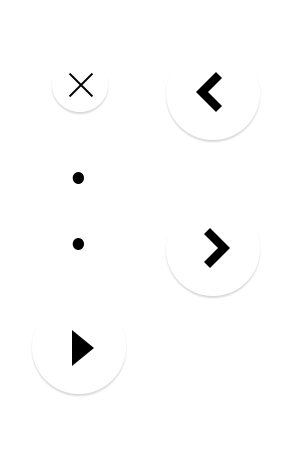
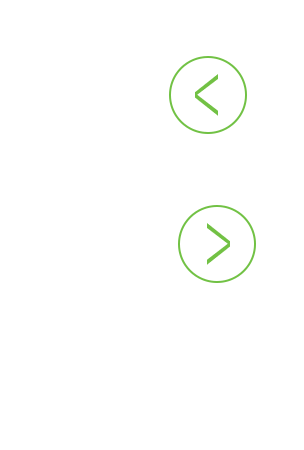
Minor Bug Fixes
Minor Bug Fixes with screen size formatting and next icons

diff --git a/quick-start.html b/quick-start.html
@@ -10,7 +10,7 @@
 		<link rel="stylesheet" href="masterslider/style/masterslider.css" />
 		 
 		<!-- MasterSlider default skin -->
-		<link rel="stylesheet" href="masterslider/skins/contrast/style.css" />
+		<link rel="stylesheet" href="masterslider/skins/light-3/style.css" />
 		 
 
 		<!-- Latest version of jQuery from Google CDN -->
@@ -47,10 +47,10 @@
 		</style>
 
         <script>
-        $(document).ready(function(){
-            new jBox('Image');
+            $(document).ready(function(){
+                 new jBox('Image');
 
-        });
+            });
 
 
         </script>
@@ -76,7 +76,7 @@
 <div class="content">
 
 <!-- masterslider -->
-<div class="master-slider ms-skin-contrast" id="masterslider">
+<div class="master-slider ms-skin-light-3" id="masterslider">
     <!-- new slide -->
     <div class="ms-slide">
          
@@ -101,9 +101,9 @@
 
         <!-- slide text layer -->
         <div class="ms-layer ms-caption"
-             style="top:10%; left:10%; bottom:50%; right:1300%; bottom:500%; font-size:19.5px;"
+             style="top:10%; left:10%; bottom:50%; right:1300%; bottom:500%; font-size:20px;"
              data-offset-x="58"
-             data-offset-y="50"
+             data-offset-y="45"
              data-origin="tl"
              data-type="text"
              data-effect="bottom(90)"
@@ -275,7 +275,7 @@
         <div class="ms-layer ms-caption"
              style="top:10%; left:10%; bottom:50%; right:1300%;"
              data-offset-x="58"
-             data-offset-y="52"
+             data-offset-y="50"
              data-origin="tl"
              data-type="text"
              data-effect="bottom(90)"
@@ -375,6 +375,11 @@
 	         space: 0,
 	         fullwidth: true,
 	         autoHeight: true,
+	         //layout: "fullscreen",
+             //fullscreenMargin: 155,
+	         smoothHeight: true,
+	         fillMode: "stretch",
+
              view: "fade"
 	         // more slider options goes here...
 	         // check slider options section in documentation for more options.
